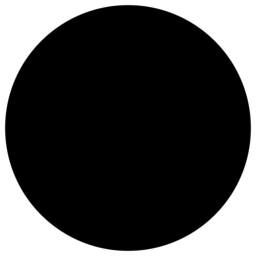
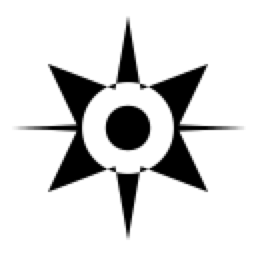
fix: restore glyph-only Grok mark for template tinting
The favicontools export of the circular Grok app icon produced a filled
disk silhouette. With isTemplate + white foreground that correctly renders
as a solid white circle. Restore the spark glyph (and scaled @2x/1024)
so monochrome template tinting shows the actual mark.

diff --git a/Assets/Brand/AGENT_ICONS.md b/Assets/Brand/AGENT_ICONS.md
@@ -13,7 +13,9 @@ Regenerated with [favicontools](https://favicontools.com) MCP `generate_iconset`
 | `agent-claude.png` | Claude Code | `simple-icons:claude` |
 | `agent-opencode.png` | OpenCode | `simple-icons:opencode` |
 | `agent-cursor.png` | Cursor | `simple-icons:cursor` |
-| `agent-grok.png` | Grok Build | Design asset `icon-1024x1024.png` (data URL) |
+| `agent-grok.png` | Grok Build | **Glyph-only** monochrome spark (not a filled circular app icon) |
+
+**Template rule:** marks must be line/glyph art with interior transparency. A filled disk + `isTemplate` becomes a solid white circle on the notch.
 
 Also kept: `@2x` (256) and `-1024` masters next to each mark.
 
